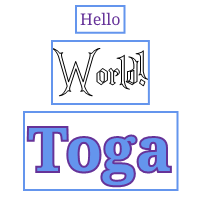
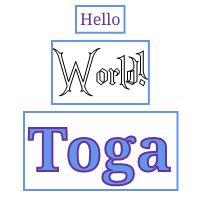
Correct WinForms text issues

Changed region(s): [[0.12, 0.63, 0.87, 0.96]]

diff --git a/winforms/src/toga_winforms/widgets/canvas.py b/winforms/src/toga_winforms/widgets/canvas.py
@@ -294,7 +294,7 @@ class Canvas(Box):
 
     # Text
     def write_text(self, text, x, y, font, baseline, draw_context, **kwargs):
-        for op in ["stroke", "fill"]:
+        for op in ["fill", "stroke"]:
             if color := kwargs.pop(f"{op}_color", None):
                 self._text_path(text, x, y, font, baseline, draw_context)
                 getattr(self, op)(color, draw_context=draw_context, **kwargs)
@@ -328,7 +328,7 @@ class Canvas(Box):
             for line in text.splitlines()
         ]
         return (
-            max(size.Width for size in sizes),
+            self.scale_out(max(size.Width for size in sizes)),
             font.metric("LineSpacing") * len(sizes),
         )
 

diff --git a/testbed/tests/widgets/test_canvas.py b/testbed/tests/widgets/test_canvas.py
@@ -599,7 +599,7 @@ async def test_write_text(canvas, probe):
     toga_font = Font("Droid Serif", 45, weight=BOLD)
     toga_size = canvas.measure_text(toga_text, font=toga_font)
 
-    with canvas.Stroke(color=REBECCAPURPLE, line_width=4) as stroke:
+    with canvas.Stroke(color=REBECCAPURPLE) as stroke:
         with stroke.Fill(color=CORNFLOWERBLUE) as text_filler:
             text_filler.write_text(
                 toga_text,
